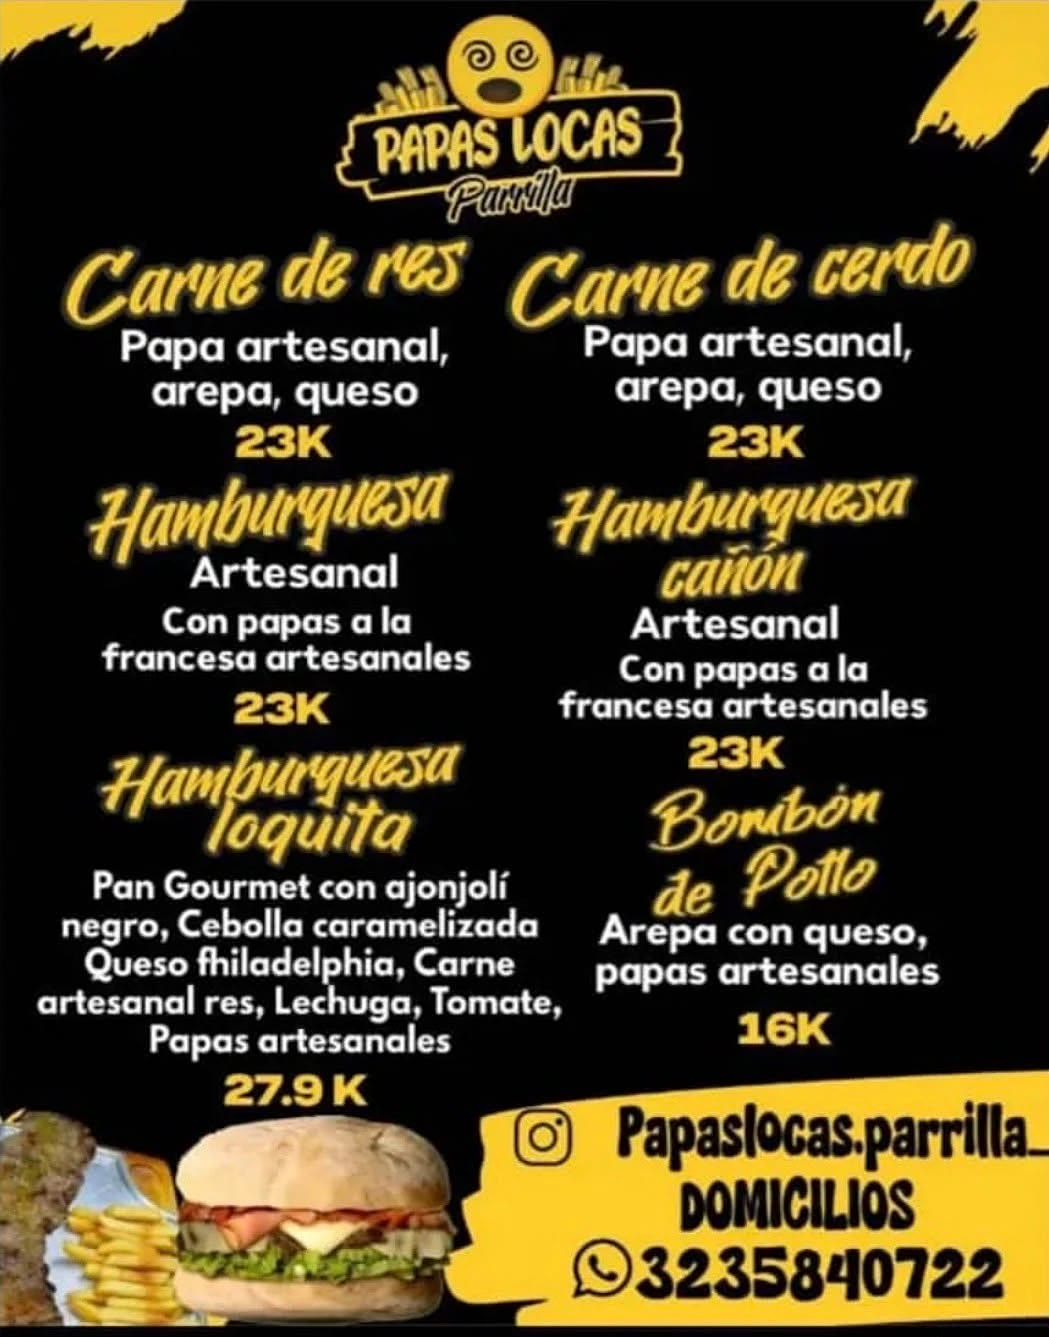
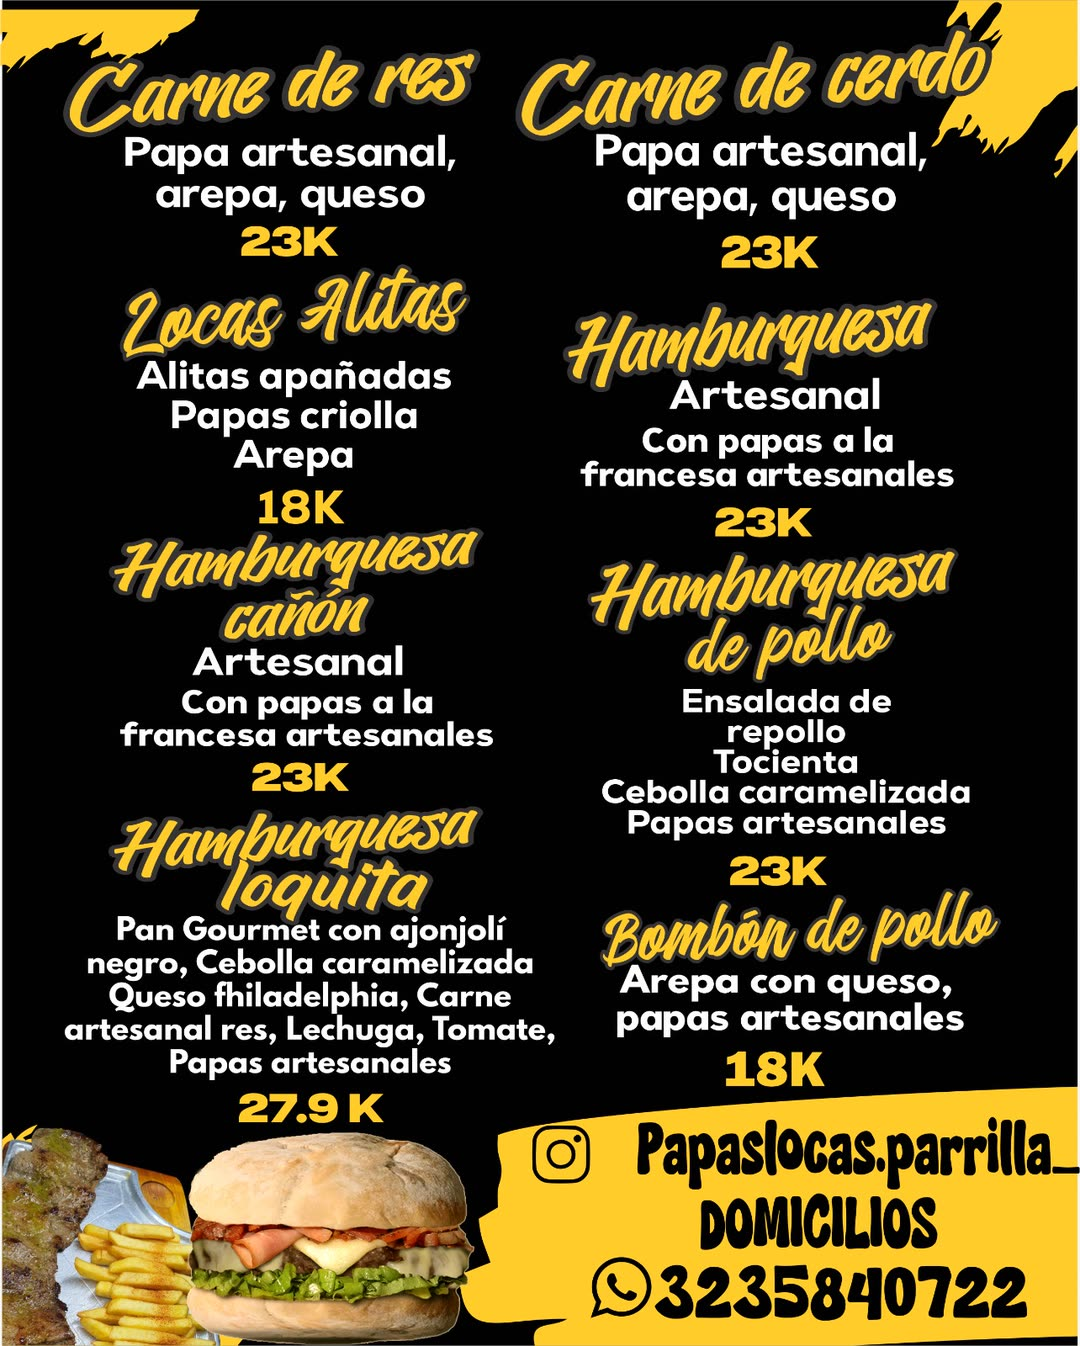
Actualización de menú

diff --git a/Papas-Locas/index.html b/Papas-Locas/index.html
@@ -4,7 +4,7 @@
 <meta charset="UTF-8">
 <meta name="viewport" content="width=device-width, initial-scale=1, viewport-fit=cover">
 <title>Papas Locas Parrilla</title>
-<meta name="description" content="Comidas rápidas en Itagüí: papas artesanales cargadas, carnes y hamburguesas. Haz tu pedido por WhatsApp.">
+<meta name="description" content="Comidas rápidas en Itagüí: papas artesanales cargadas, arepas rellenas, carnes y hamburguesas. Haz tu pedido por WhatsApp.">
 <meta name="theme-color" content="#0E0E0E">
 <meta name="color-scheme" content="dark">
 
@@ -12,7 +12,7 @@
 <meta property="og:type" content="website">
 <meta property="og:locale" content="es_CO">
 <meta property="og:title" content="Papas Locas Parrilla">
-<meta property="og:description" content="Papas artesanales cargadas, carnes y hamburguesas en Itagüí. Haz tu pedido por WhatsApp.">
+<meta property="og:description" content="Papas artesanales cargadas, arepas rellenas, carnes y hamburguesas en Itagüí. Haz tu pedido por WhatsApp.">
 <meta property="og:url" content="https://safelyn.github.io/Paginas-Clientes/Papas-Locas/">
 <meta property="og:image" content="https://safelyn.github.io/Paginas-Clientes/Papas-Locas/logo.jpg">
 <meta property="og:image:alt" content="Logo de Papas Locas Parrilla">
@@ -160,7 +160,7 @@
     </div>
     <h1>Papas Locas <span>Parrilla</span></h1>
     <span class="badge">Comidas rápidas · Itagüí</span>
-    <p class="tagline">Papas artesanales cargadas, carnes y hamburguesas. Pide a domicilio por WhatsApp.</p>
+    <p class="tagline">Papas artesanales cargadas, arepas rellenas, carnes y hamburguesas. Pide a domicilio por WhatsApp.</p>
 
     <nav class="socials" aria-label="Redes sociales">
       <a href="https://www.instagram.com/papaslocas.parrilla_/" target="_blank" rel="noopener" aria-label="Instagram de Papas Locas">
@@ -182,13 +182,17 @@
     <h2 class="section-title">Nuestra carta</h2>
     <p class="section-note">Toca una imagen para verla en grande.</p>
     <div class="menu">
+      <a href="carta/arepas.jpg" target="_blank">
+        <img src="carta/arepas.jpg" width="1024" height="1536"
+             alt="Arma tu arepa rellena por $18.000: arepa 100% de maíz con 1 proteína (chicharrón, carne desmechada o pollo desmechado) y 5 toppings a elección.">
+      </a>
       <a href="carta/papas.jpg" target="_blank">
-        <img src="carta/papas.jpg" width="1046" height="1330"
-             alt="Carta de papas: Mexicana $20.000, Paisa $20.000, Montañeras $21.000, Al barril $22.000, Criollas $20.000, Papas junior $13.000 y Arma tus papas (1 proteína y 4 toppings) $20.000.">
+        <img src="carta/papas.jpg" width="1080" height="1350" loading="lazy"
+             alt="Carta de papas: Mexicana $22.000, Paisa $22.000, Montañeras $23.000, Al barril $24.000, Criollas $22.000, Papas junior $13.000 y Arma tus papas (1 proteína y 4 toppings) $22.000.">
       </a>
       <a href="carta/carnes-hamburguesas.jpg" target="_blank">
-        <img src="carta/carnes-hamburguesas.jpg" width="1049" height="1337" loading="lazy"
-             alt="Carta de carnes y hamburguesas: Carne de res $23.000, Carne de cerdo $23.000, Hamburguesa artesanal $23.000, Hamburguesa cañón $23.000, Hamburguesa loquita $27.900 y Bombón de pollo $16.000.">
+        <img src="carta/carnes-hamburguesas.jpg" width="1080" height="1346" loading="lazy"
+             alt="Carta de carnes, alitas y hamburguesas: Carne de res $23.000, Carne de cerdo $23.000, Locas alitas $18.000, Hamburguesa artesanal $23.000, Hamburguesa cañón $23.000, Hamburguesa de pollo $23.000, Hamburguesa loquita $27.900 y Bombón de pollo $18.000.">
       </a>
     </div>
 
